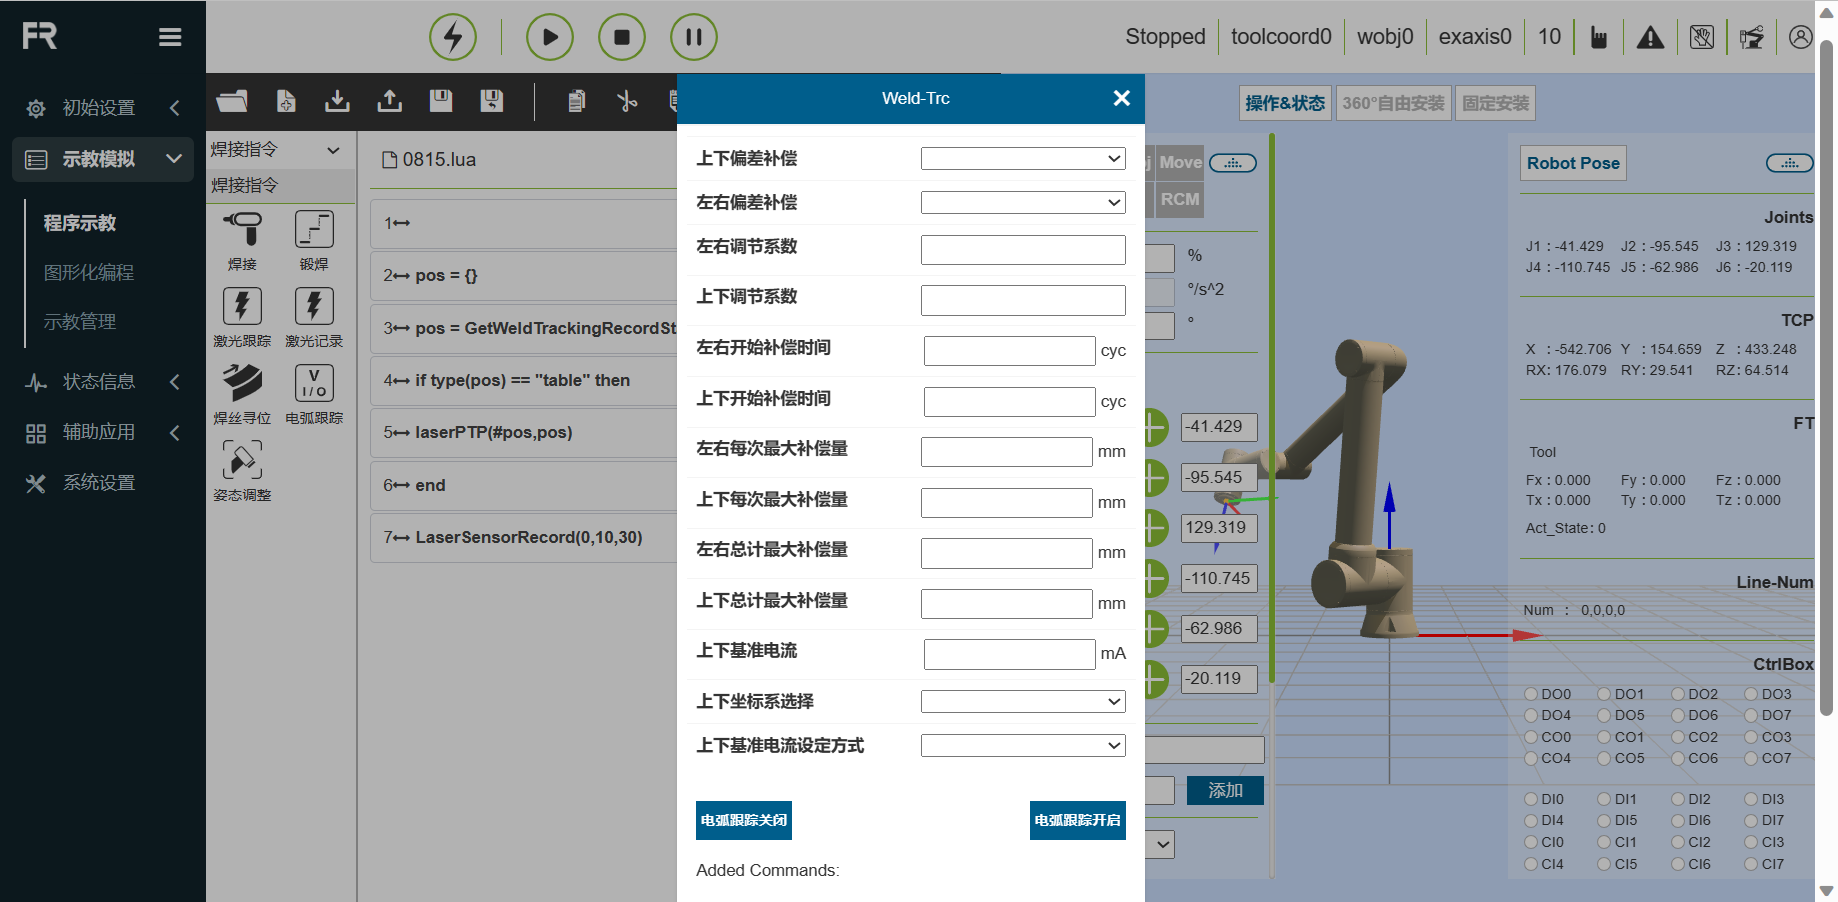
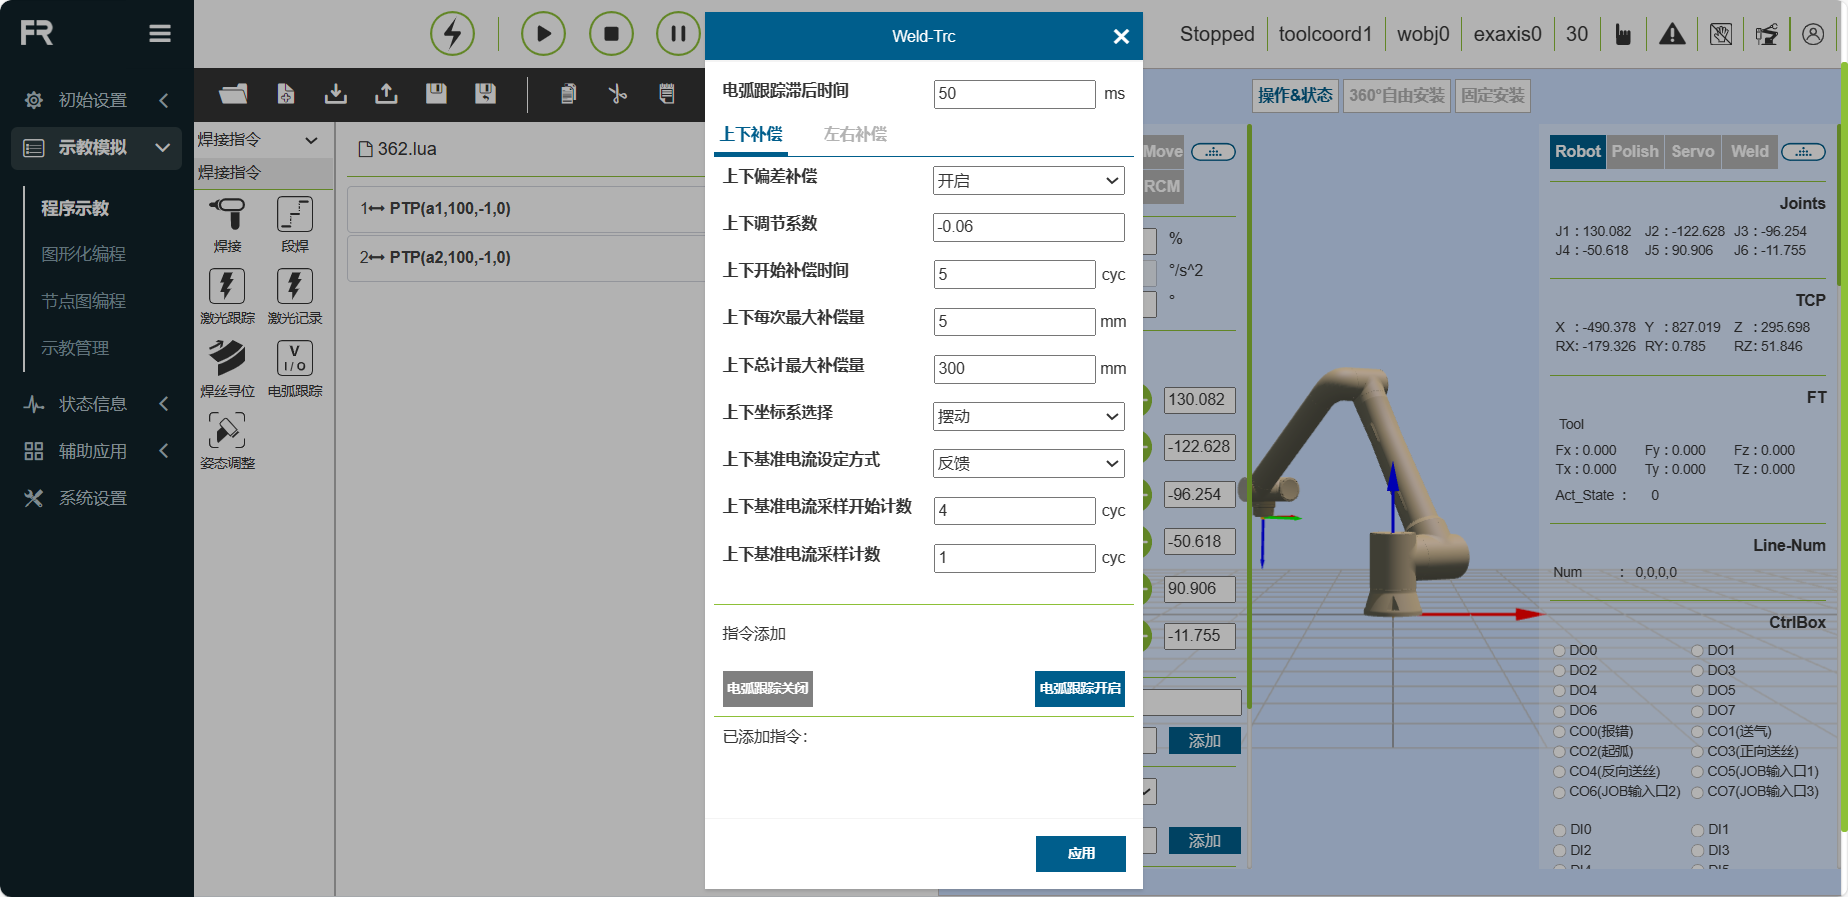
Update new teaching_pendant 11/22

diff --git a/source/CobotsManual/node_editor_software.rst b/source/CobotsManual/node_editor_software.rst
@@ -1451,14 +1451,15 @@ Aux-IO是机器人与PLC通讯控制外部扩展IO的指令功能，需要机器
 
 “电弧跟踪开启/关闭”指令节点,参数：
 
+- 电弧跟踪滞后时间(ms): 参考值 50
 - 偏差补偿: 关闭/开启
 - 调节系数: 0 ~ 300
 - 补偿时间(cyc): 0 ~ 300
 - 每次最大补偿量(mm): 0 ~ 300
 - 总计最大补偿量(mm): 0 ~ 300
-- 上下基准电流(mA): 0 ~ 300
 - 上下坐标系选择: 摆动
 - 上下基准电流设定方式: 反馈/常数
+- 上下基准电流(A): 0 ~ 300
 
 .. image:: node_editor_software/095.png
    :width: 6in
